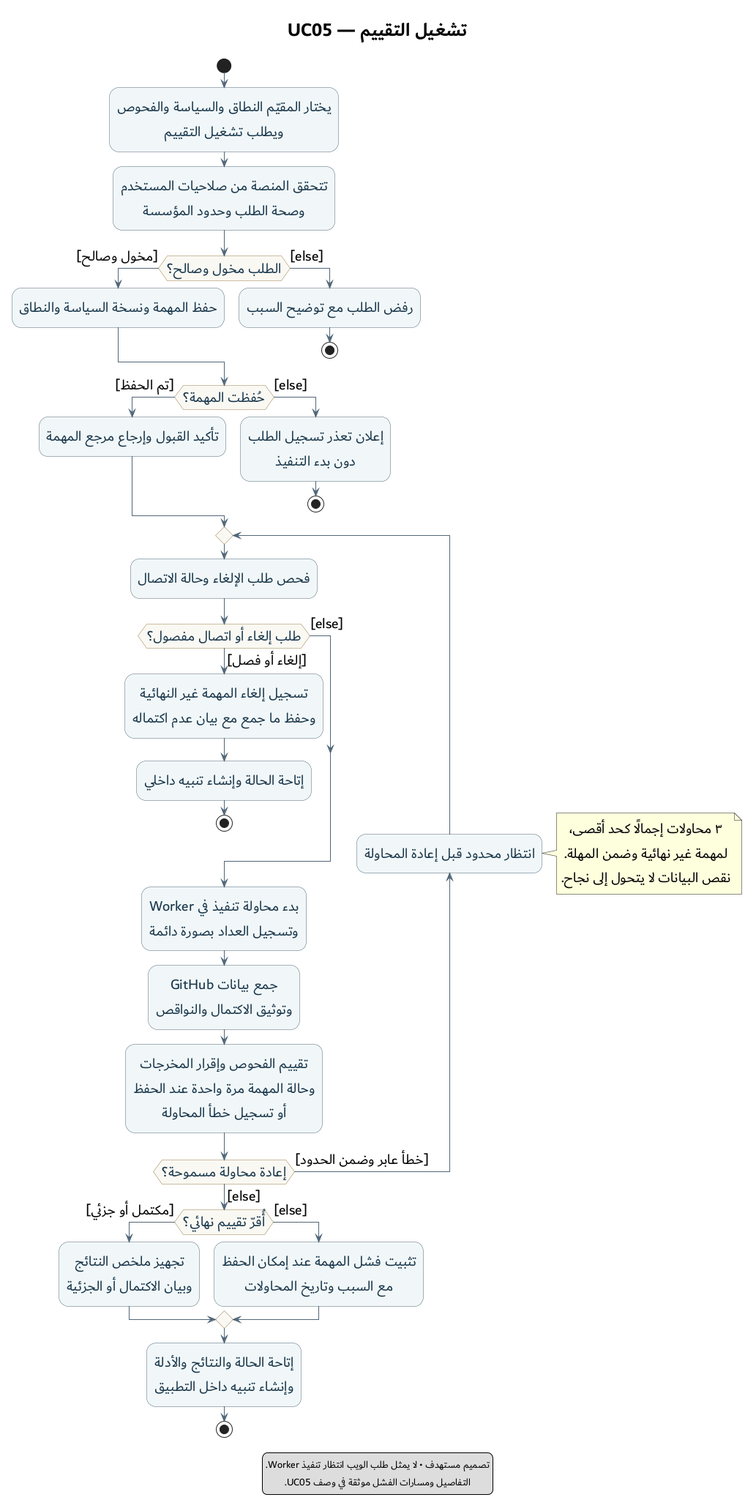
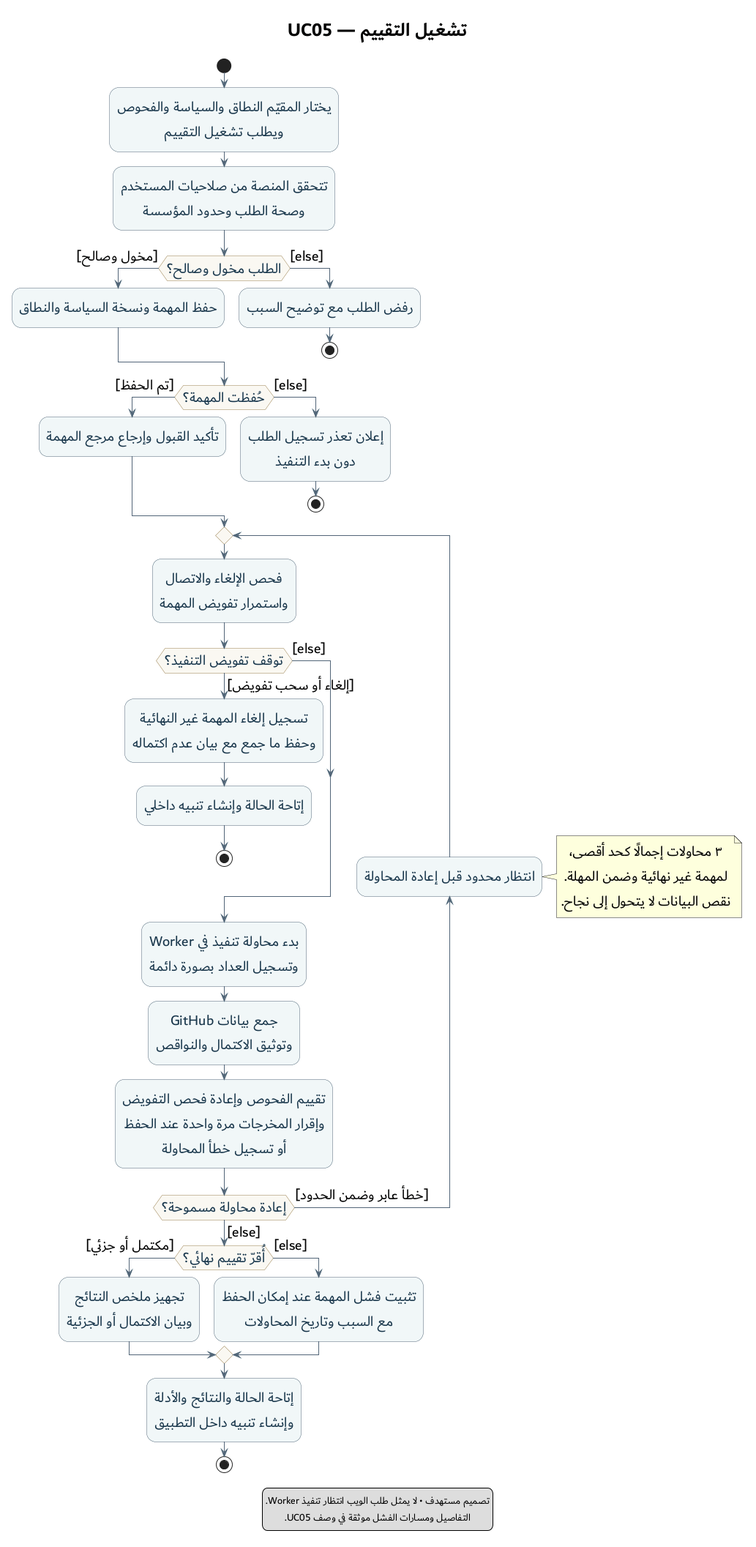
Add organization access matrix and Kanban work board

diff --git a/docs/ACCESS_CONTROL_MATRIX.md b/docs/ACCESS_CONTROL_MATRIX.md
@@ -1,0 +1,82 @@
+# مصفوفة صلاحيات المنصة
+
+1 نوفمبر 2026. الحالة: **مسودة تصميم للمراجعة**، وليست صلاحيات منفذة. تفصل هذه الوثيقة FR-02 وFR-03 وFR-26 ضمن الأدوار الثلاثة المعتمدة؛ لا تضيف دورًا أو متطلبًا وظيفيًا رئيسيًا جديدًا.
+
+## قاعدة الأدوار
+
+المسؤول يدير المؤسسة ويستطيع أيضًا تنفيذ أعمال المقيّم والاطلاع. المقيّم ينفذ التقييم والتخطيط ومتابعة المعالجة، ويطلع على النتائج والتقارير. المراجع يطلع على النتائج والأدلة والتاريخ والتقارير دون تعديل بيانات المؤسسة.
+
+هذا توزيع مقترح لإغلاق الغموض الذي ظهر في مراجعة التصميم. للمستخدم دور واحد في كل عضوية مؤسسة؛ امتلاك المسؤول لصلاحيات تشغيل لا يحتاج عضوية ثانية أو دورًا عالميًا. وتنفذ القوائم المسموحة صراحة، دون الاعتماد على اسم «المسؤول» بوصفه تجاوزًا عامًا للقيود.
+
+«نعم» في الجدول تفترض جلسة صالحة وعضوية فعالة وموارد تابعة للمؤسسة المختارة. لا تكفي معرفة معرف تقييم أو ملف أو مستخدم للوصول إليه.
+
+الإجراء غير المسموح صراحة يرفض افتراضيًا. إضافة إجراء جديد تحتاج تحديد صلاحياته؛ لا يستنتج السماح من مجرد تسجيل الدخول.
+
+## الإجراءات المسموحة
+
+| الإجراء | المسؤول | المقيّم | المراجع | المرجع والقيد |
+|---|---|---|---|---|
+| إدارة عضويات المؤسسة وإسناد الأدوار وتعطيلها وإعادة تفعيلها | نعم | لا | لا | UC01؛ يمنع التكرار وتعطيل آخر مسؤول فعال أو خفض دوره |
+| استعراض سجل العضويات وأدوارها من صفحة الإدارة | نعم | لا | لا | UC01؛ لا يكشف دليل مستخدمي المنصة خارج المؤسسة |
+| اختيار مسؤول معالجة من قائمة مختصرة لأعضاء المؤسسة الفعالين | نعم | نعم | لا | UC06؛ الحد اللازم للإسناد، دون صلاحية إدارة العضويات |
+| ربط اتصال GitHub أو تعديل نطاق وصوله أو فصله | نعم | لا | لا | UC02؛ يتطلب أيضًا إثبات التفويض المناسب على GitHub |
+| قراءة حالة الاتصال وحدود التغطية غير السرية | نعم | نعم | نعم | تظهر بالقدر المرتبط بنطاق العمل والنتائج المصرح بها |
+| إنشاء سياسة فحص أو اعتماد نسخة معدلة منها | نعم | لا | لا | UC03؛ تحفظ النسخ السابقة |
+| تعريف أهداف السماح والمنع والطبقات الثابتة والتعديلات المسموحة | نعم | لا | لا | UC03؛ لا يغير طالب الخطة الأهداف المعتمدة ضمن UC07 |
+| قراءة السياسة والأهداف المشار إليهما في تقييم أو خطة مصرح بها | نعم | نعم | نعم | UC03 وUC09؛ للمتابعة والتفسير |
+| إنشاء نطاق تقييم أو تعديله وحفظه | نعم | نعم | لا | UC04؛ مستودعات مصرح بها وفحوص من الكتالوج وسياسة محددة |
+| طلب تشغيل تقييم | نعم | نعم | لا | UC05؛ قبول الطلب بعد حفظ المهمة |
+| عرض حالة المهمة ونتائجها المتاحة وحدودها | نعم | نعم | نعم | UC05 وUC09؛ نطاق المؤسسة، لا مهام مؤسسات أخرى |
+| تغيير مسؤول معالجة المخالفة أو حالتها أو إضافة تعليق | نعم | نعم | لا | UC06؛ لا يعدل حكم الفحص أو دليله |
+| إغلاق المخالفة إداريًا | نعم | نعم | لا | UC06؛ سبب مطلوب، والإغلاق لا يثبت الإصلاح |
+| طلب خطة إصلاح من تقييم محفوظ | نعم | نعم | لا | UC07؛ أهداف معتمدة ومدخلات ونطاق يدعمهما المحرك |
+| طلب إعادة التحقق أو طلب مهمة جديدة بعد معالجة سبب التعثر | نعم | نعم | لا | UC08 وFR-28؛ مرجع جديد مرتبط بالتاريخ، لا تصفير للمحاولات القديمة |
+| مراجعة النتائج والأدلة وتاريخ المخالفات | نعم | نعم | نعم | UC09؛ يعاد التحقق عند فتح الدليل نفسه |
+| مقارنة تقييمين | نعم | نعم | نعم | UC09؛ تقييمان مصرح بهما، مع بيان تكافؤ السؤال والنطاق والمتطلب |
+| عرض تقرير وطباعته | نعم | نعم | نعم | UC10؛ يشمل فحص الإذن عند طلب نسخة الطباعة |
+| قراءة سجل التدقيق الإداري للمؤسسة | نعم | لا | نعم | FR-26؛ عرض محمي لا يتيح تعديل السجل. يظل تاريخ التقييم والمعالجة متاحًا للمقيّم عبر UC09 |
+| تعديل حكم أمني أو دليل تقييم سابق يدويًا | لا | لا | لا | الحكم الجديد ينشأ من تقييم جديد، ولا يكتب فوق الأصل |
+| حذف تاريخ التقييمات أو سجل التدقيق من واجهة المستخدم | لا | لا | لا | ليس وظيفة في النطاق الحالي؛ سياسة الاحتفاظ التشغيلية تفصل لاحقًا |
+| عرض رمز GitHub أو مفتاح التطبيق الخام في الواجهة أو التقرير | لا | لا | لا | إدارة الاتصال لا تمنح صلاحية كشف أسراره |
+| تطبيق خطة إصلاح آليًا على GitHub من المنصة | لا | لا | لا | خارج التنفيذ الحالي؛ التطبيق اليدوي يتطلب صلاحية GitHub مستقلة |
+
+المراجعة والقراءة لا تستدعيان منح صلاحية تعديل. كما أن إسناد مخالفة إلى عضو لا يغير دوره؛ وجوده مسؤولًا عن المعالجة لا يضيف إليه إجراءات محظورة في الجدول.
+
+## إجراءات تخص حساب المستخدم نفسه
+
+الدخول والخروج وإدارة الجلسة واسترداد الوصول تخص صاحب الحساب وفق آلية المصادقة التي سنختارها. تنبيهات المستخدم الداخلية تخصه؛ لا يمنح دور المسؤول حق فتح صندوق تنبيهات شخص آخر. البيانات التي يتضمنها التنبيه تظل خاضعة لعضوية المؤسسة عند فتحها.
+
+تعطيل عضوية مؤسسة يمنع الوصول إلى مواردها، لكنه لا يعطل حساب المستخدم أو عضوياته في مؤسسات أخرى. أما إنشاء المؤسسة والمسؤول الأول فله مسار تهيئة مستقل لم يُحسم بعد؛ لا نفترض أن أحد الأدوار يستطيع إنشاء نفسه داخل مؤسسة قائمة.
+
+## ماذا يحدث عند تغيير الدور أو تعطيل العضوية؟
+
+1. يقرأ الخادم العضوية والدور في سياق المؤسسة لكل طلب محمي. تغيير الدور أو تعطيل العضوية يسري على الطلبات اللاحقة؛ لا يعتمد القرار على زر مخفي أو دور قديم محفوظ في الصفحة وحدها.
+2. إذا بقيت الصلاحية المطلوبة بعد تغيير الدور، يبقى الإجراء مسموحًا. مثال: انتقال المسؤول إلى مقيّم لا يسحب صلاحية طلب تقييم، لكنه يسحب إدارة العضويات والسياسة والاتصال.
+3. عند بدء مهمة منتظرة، يتحقق Worker من استمرار عضوية طالبها والصلاحية المطلوبة للمهمة، ومن صلاحية اتصال المؤسسة ونطاقها. عند فقد التفويض لا يبدأ العمل، وتسجل المهمة غير النهائية ملغاة مع السبب.
+4. المهام الجارية تفحص الإلغاء والتفويض عند نقاط التحقق وقبل إقرار نتيجة نهائية. تسحب صلاحية التنفيذ عند الحاجة، دون وعد بإيقاف طلب شبكة قائم فورًا؛ لا تؤكد المهمة أنها اكتملت إذا اعتمد إلغاؤها قبل الإقرار.
+5. تبقى نتيجة المهمة التي انتهت بالفعل وتاريخها محفوظين. تغيير دور منشئها لا يغير حكمها، لكن وصوله إليها لاحقًا يحتاج صلاحية قائمة.
+6. سحب عضوية مستخدم لا يفصل اتصال المؤسسة ولا يلغي مهام المستخدمين الآخرين أو عضوياته في مؤسسات أخرى. فصل الاتصال إجراء إداري مستقل في UC02.
+7. لا تعاد حالة العضوية أو النسخة القديمة للتغلب على تعارض. يراجع التفويض والنسخة وشرط بقاء مسؤول فعال داخل عملية الحفظ، مع حماية التنفيذ المتزامن.
+
+هذه سياسة مقترحة للمهام ضمن المصفوفة. آلية تنفيذ نقاط التحقق وحماية الإقرار عند الانقطاع تفصل في تصميم المهام؛ لا تنشئ دور مستخدم رابعًا باسم Worker.
+
+سحب العضوية أو الوصول إلى المستودع يختلف عن تعذر قراءة حقل لفحص داخل نطاق مصرح به. نقص بيانات فحص لا يلغي بقية الأسئلة تلقائيًا ولا يسقطه من التغطية؛ يعالج UC05 أثره بوصفه نقصًا معلومًا في البيانات.
+
+## أمثلة قبول نتحقق منها عند التنفيذ
+
+| الحالة | النتيجة المطلوبة |
+|---|---|
+| المستخدم مسؤول في المؤسسة A ومراجع في B | يدير A، ويقرأ النتائج المصرح بها في B؛ لا تنتقل صلاحيات A إلى B |
+| المراجع يرسل طلب تعديل سياسة أو حالة مخالفة مباشرة إلى الخادم | يرفض الطلب حتى لو تجاوز الواجهة أو عرف المعرفات |
+| المقيّم يطلب تشغيلًا أو خطة ضمن مؤسسته | يقبل الطلب بعد التحقق والحفظ؛ طلب إدارة اتصال أو عضوية يرفض |
+| المسؤول يطلب تشغيل التقييم أو قراءة الأدلة | يسمح به ضمن المصفوفة؛ يظل ممنوعًا من تغيير الأدلة السابقة أو كشف الرموز |
+| مسؤولان يحاولان بالتزامن خفض دوريهما ولا يوجد غيرهما | يحافظ الحفظ على مسؤول فعال واحد على الأقل |
+| مستخدم يرسل الدور أو هوية المؤسسة أو الفاعل في الطلب بقيم مزورة | تستمد هوية الفاعل وعضويته من السياق الموثوق، وتتحقق ملكية كل مرجع |
+| تعطيل عضوية بعد فتح صفحة أو قبول مهمة | يرفض الوصول اللاحق؛ وتراجع المهمة غير النهائية تفويض التنفيذ عند نقاط التحقق |
+| تعذر قراءة بيانات فحص أو انتهت محاولة | يظهر السبب؛ لا تتحول صلاحية المستخدم أو نجاح المهمة إلى حكم أمني مستوفٍ |
+
+هذه معايير قبول مستقبلية، لا نتائج اختبارات أجريت. ولا توسع صلاحيات المنصة ما يسمح به اتصال GitHub.
+
+## الارتباط بالتصميم
+
+[حالات الاستخدام](diagrams/use-cases/02-use-cases.md)، و[UC01](use-cases/UC01-manage-memberships.md)، و[دورة التقييم UC05](use-cases/UC05-run-assessment.md)، و[ملاحظات الأمن](SECURITY_DESIGN_NOTES.md). تبقى التهيئة الأولى والمصادقة واسترداد الوصول وإدارة أسرار التشغيل ضمن البنود التالية، كما توضح [لوحة العمل](KANBAN.md).

diff --git a/docs/use-cases/UC05-run-assessment.md b/docs/use-cases/UC05-run-assessment.md
@@ -5,7 +5,7 @@
 | العنصر | الوصف |
 |---|---|
 | الهدف | تقييم نطاق GitHub وفق نسخة محددة من سياسة المؤسسة، وحفظ النتائج وأدلتها وحدودها |
-| الطرف الرئيسي | المقيّم المخول داخل المؤسسة |
+| الطرف الرئيسي | المقيّم أو مسؤول المؤسسة، وفق مسودة مصفوفة الصلاحيات |
 | الطرف الخارجي | GitHub، عبر GitHub App المعتمدة |
 | المحفز | اختيار المستخدم «تشغيل التقييم» |
 | المدخلات | المؤسسة، والمستودعات والفحوص المختارة، ونطاق كل فحص، ونسخة السياسة، ومرجع الاتصال |
@@ -18,7 +18,7 @@
 1. يختار المقيّم مؤسسته ونطاقًا محفوظًا من UC04، ويراجع مستودعاته وفحوصه ونسخة السياسة المعتمدة، ثم يطلب التشغيل.
 2. تتحقق المنصة من الجلسة وصلاحيات المستخدم وحدود المؤسسة وصحة النطاق والمدخلات.
 3. تحفظ المنصة المهمة قبل تأكيد قبولها، وتثبت مراجع النطاق ونسخة السياسة والاتصال. تعرض مرجع المهمة وحالتها؛ يستمر العمل في الخلفية دون إبقاء طلب الويب مفتوحًا حتى النهاية.
-4. يبدأ Worker محاولة تنفيذ ويسجل بدايتها وعدّادها بصورة دائمة قبل العمل. يظل نطاق القراءة محصورًا بمؤسسة المهمة وما يصرح به اتصالها.
+4. يتحقق Worker من استمرار تفويض المهمة، بما فيه عضوية طالبها وصلاحية الإجراء والاتصال ونطاقه، ثم يبدأ محاولة تنفيذ ويسجل بدايتها وعدّادها بصورة دائمة قبل العمل. يظل نطاق القراءة محصورًا بمؤسسة المهمة وما يصرح به اتصالها.
 5. يجمع بيانات GitHub المطلوبة، بما فيها الصفحات اللازمة، ويسجل المصدر ونافذة الجمع والأخطاء والحقول الناقصة.
 6. يقيم الفحوص المختارة وفق نسخة السياسة المثبتة. يميز الانطباق والدعم والحكم الأمني عن حالة تشغيل المهمة؛ يوثق النتائج غير المحسومة وأسبابها.
 7. يحفظ الأدلة والنتائج، وينشئ المخالفات المثبتة أو يربط ظهورها بسجلاتها الحالية وفق هوية المخالفة المعتمدة، دون تكرار المخرجات النهائية عند إعادة المحاولة.
@@ -37,7 +37,7 @@
 | A7 | بيانات كافية لبعض الفحوص فقط | تحفظ النتائج الممكنة، ومنها المخالفة المثبتة بدليل، وتعلن جزئية التشغيل. تظهر الأسئلة الأخرى غير محسومة مع أسبابها |
 | A8 | فحص غير منطبق أو ميزة غير متاحة أو فحص غير مدعوم | يظهر التصنيف والسبب. عدم الانطباق بسبب مثبت لا يعد نجاحًا؛ إذا كانت السياسة تطلب ميزة ثبت تعطيلها، فذلك إخفاق للمتطلب |
 | A9 | فشل التقييم الداخلي أو حفظ المخرجات | يسجل سبب المحاولة عند إمكان ذلك، ولا يثبت نجاح المهمة قبل حفظ مخرجاتها. يسترجع العمل المنقطع وفق حد المحاولات دون إقرار نتيجة نهائية مرتين؛ تعذر قاعدة البيانات يعالج عند استعادة الوصول |
-| A10 | طلب إلغاء أو فصل الاتصال قبل انتهاء المهمة | يمنع بدء قراءات جديدة، وتلغى المهمة غير النهائية مع حفظ ما جمع بوصفه غير مكتمل. طلب شبكة قائم قد يستمر إلى نهايته أو مهلته؛ لا يثبت الإلغاء زوال مخالفة ولا يستبدل نتيجة انتهت بالفعل |
+| A10 | إلغاء أو فصل الاتصال أو فقد تفويض طالب المهمة قبل انتهائها | يوقف التنفيذ عند نقاط التحقق وقبل الإقرار النهائي، وتلغى المهمة غير النهائية مع حفظ ما جمع بوصفه غير مكتمل. طلب شبكة قائم قد يستمر إلى نهايته أو مهلته؛ لا يثبت الإلغاء زوال مخالفة ولا يستبدل نتيجة انتهت بالفعل. تغير الدور لا يلغي المهمة إذا بقي الإجراء مسموحًا |
 
 ## قواعد لا تتغير بين المسارات
 
@@ -54,6 +54,7 @@
 - [Activity Diagram — PlantUML](../diagrams/activity/03-run-assessment-activity.puml) و[المعاينة](../diagrams/activity/03-run-assessment-activity.png).
 - [المتطلبات الوظيفية](../FUNCTIONAL_REQUIREMENTS_INVENTORY.md): FR-01، FR-03، FR-07 إلى FR-15، FR-26 إلى FR-28.
 - [UC04 — تحديد نطاق التقييم](UC04-define-assessment-scope.md) لإعداد النطاق وحفظه قبل طلب التنفيذ.
+- [مصفوفة الصلاحيات](../ACCESS_CONTROL_MATRIX.md) لحدود الدور والمؤسسة والتعامل مع سحب تفويض المهمة.
 - [نطاق المشروع](../PROJECT_SCOPE.md)، ولا سيما تعريف النتيجة والمخالفة وحدود المحاولات.
 
 المخطط يلخص المسار والتحولات الرئيسية؛ الجدول أعلاه يحدد تفاصيل البدائل. هذه مواصفة للسلوك المطلوب، وليست نتائج اختبار لتنفيذ قائم.

diff --git a/docs/use-cases/UC01-manage-memberships.md b/docs/use-cases/UC01-manage-memberships.md
@@ -16,7 +16,7 @@
 
 - العضوية تربط مستخدمًا بمؤسسة محددة. يحمل كل ارتباط دورًا واحدًا من الأدوار الثلاثة المعتمدة: مسؤول أو مقيّم أو مراجع؛ يمكن للمسؤول المخول تغيير هذا الإسناد.
 - المستخدم نفسه قد تكون له عضويات في مؤسسات مختلفة بأدوار مختلفة. لا يصبح مسؤولًا في مؤسسة ثانية بسبب دوره في الأولى.
-- المسؤول يدير العضويات والاتصال والسياسة، والمقيّم يدير دورة التقييم والمعالجة والتخطيط، والمراجع يراجع النتائج والأدلة والتقارير. تفصل مصفوفة الصلاحيات جميع الإجراءات المشتركة لاحقًا؛ لا يفترض وراثة أدوار إضافية من اسم الدور وحده.
+- المسؤول يدير العضويات والاتصال والسياسة ويستطيع التشغيل والاطلاع، والمقيّم يدير دورة التقييم والمعالجة والتخطيط، والمراجع يراجع النتائج والأدلة والتقارير. تفصل [مسودة مصفوفة الصلاحيات](../ACCESS_CONTROL_MATRIX.md) الإجراءات والقيود؛ الدور واحد لكل عضوية، والقائمة المسموحة لكل إجراء صريحة.
 - عضوية المنصة مستقلة عن عضوية GitHub وعن البوتات والأطراف التي يحلل المحرك صلاحياتها. إسناد دور في المنصة لا يمنح بذاته صلاحية على GitHub.
 
 ## المسار الأساسي
@@ -27,7 +27,7 @@
 4. يحدد المسؤول القيم الجديدة ويراجع ملخص التغيير، بما فيه الصلاحيات التي ستتغير، ثم يؤكد الطلب. لا يعدل هذا الإجراء هوية المستخدم أو بيانات دخوله أو عضوياته في مؤسسات أخرى.
 5. تتحقق المنصة من الإجراء والدور ومرجع العضوية، ومن بقاء مسؤول فعال واحد على الأقل بعد التغيير. ينطبق ذلك على تعطيل آخر مسؤول أو خفض دوره، بما فيه تعديل الفاعل لعضويته هو.
 6. تعيد التحقق من تفويض الفاعل والنسخة الحالية وقت الحفظ، وتحفظ التغيير وسجل التدقيق بصورة متسقة. يحمي التنفيذ شرط آخر مسؤول عند الطلبات المتزامنة؛ لا يكفي عد الأعضاء في صفحة سبق فتحها.
-7. تعرض النتيجة المحفوظة. يسري الدور أو التعطيل على طلبات الوصول اللاحقة؛ لا يبقى الوصول مباحًا لمجرد أن المستخدم فتح صفحة قبل سحب صلاحيته.
+7. تعرض النتيجة المحفوظة. يسري الدور أو التعطيل على طلبات الوصول اللاحقة؛ لا يبقى الوصول مباحًا لمجرد أن المستخدم فتح صفحة قبل سحب صلاحيته. تراجع المهام غير النهائية استمرار صلاحية طالبها وفق المصفوفة، دون فصل اتصال المؤسسة أو إلغاء مهام الآخرين تلقائيًا.
 8. تبقى التقييمات والأدلة والتعليقات وسجلات التدقيق السابقة مرتبطة بفاعلها وتاريخها. تعطيل العضوية أو إعادة تفعيلها لا يمحو التاريخ أو ينشئ عضوية مكررة.
 
 ## البدائل والاستثناءات

diff --git a/docs/DESIGN_CONTENT_REVIEW_2026-11-01.md b/docs/DESIGN_CONTENT_REVIEW_2026-11-01.md
@@ -77,7 +77,7 @@
 
 ## ما بقي قبل البناء
 
-1. تثبيت مصفوفة الصلاحيات، وطريقة المصادقة وتهيئة المؤسسة والمسؤول الأول واسترداد الوصول.
+1. تثبيت [مسودة مصفوفة الصلاحيات](ACCESS_CONTROL_MATRIX.md) التي أصبحت موثقة، وتفصيل طريقة المصادقة وتهيئة المؤسسة والمسؤول الأول واسترداد الوصول.
 2. تحديد صلاحيات GitHub App وendpoints لكل مجموعة فحوص، وإثبات الوصول في مختبر مصرح به. كما يلزم تفصيل إثبات سلطة الشخص الذي يربط تثبيت المؤسسة.
 3. اختيار مكتبة المهام، وتفصيل ملكية المحاولة عند الانقطاع والإلغاء والمهل. يلزم أيضًا تحديد سلوك المحرك إذا وجد خطة صحيحة ثم انتهت ميزانية تحسين الكلفة.
 4. إعداد Component وDomain/ERD وSequence وState وتدفق البيانات والنشر حيث تحتاجها متطلباتنا؛ هذه الرسوم لم تُنجز بعد.
@@ -103,4 +103,4 @@
 
 راجعت طلب المراجعة رقم 1 عند الالتزام `1392b0ec6ff10d8e45b3b0ebd5f7828fd1417033`. طابقت ملفات التصميم المحلية الخمسين مع معرفات ملفاتها على GitHub، وفحصت قائمة التغييرات البالغ عددها 51 مع README: لم يظهر ملف مفقود أو مختلف أو ملف خارج الحزمة. المخططات المرفوعة 13 مصدرًا و16 معاينة، وكل صورة داخل مجلد نوعها. كان الطلب مفتوحًا بوصفه Draft، ولم تكن التغييرات مدمجة في main وقت الفحص.
 
-في المرور الثاني فصلت مراجعة الدليل عن المقارنة في UC09: يمكن طلب المقارنة من ملخص التقييم، وتعذر دليل واحد لا يمنع الاطلاع المصرح على بقية النتائج. كما اختصرت ملف المراجعة الأكاديمية إلى الحالة الحالية بدل جمع أعداد المراحل السابقة في الصفحة نفسها. تبقى فجوات الصلاحيات والمصادقة والمكونات والبيانات المذكورة أعلاه مفتوحة.
+في المرور الثاني فصلت مراجعة الدليل عن المقارنة في UC09: يمكن طلب المقارنة من ملخص التقييم، وتعذر دليل واحد لا يمنع الاطلاع المصرح على بقية النتائج. كما اختصرت ملف المراجعة الأكاديمية إلى الحالة الحالية بدل جمع أعداد المراحل السابقة في الصفحة نفسها. أضيفت لاحقًا مسودة مصفوفة الصلاحيات، وتبقى مراجعتها وتفاصيل المصادقة والمكونات والبيانات ضمن استكمال التصميم.

diff --git a/docs/KANBAN.md b/docs/KANBAN.md
@@ -1,0 +1,15 @@
+# لوحة العمل
+
+1 نوفمبر 2026. متابعة يدوية داخل مستودع المشروع. الحد: **بند واحد جارٍ في الوقت نفسه**. نقل بند إلى «للمراجعة» يعني توفر مخرج يمكن مراجعته، ولا يعني تنفيذ منصة أو نجاح اختبار حي.
+
+| البند | الحالة | المخرج أو شرط الانتقال |
+|---|---|---|
+| AC-01 — صلاحيات الأدوار وسحب الوصول | للمراجعة | [المصفوفة](ACCESS_CONTROL_MATRIX.md)، ومواءمة الأوصاف والرسوم؛ الاقتراح يتيح للمسؤول التشغيل والاطلاع أيضًا |
+| AUTH-01 — الدخول وتهيئة المؤسسة والمسؤول الأول والاسترداد | جاهز | وصف مسار واحد واضح، وتحديد ما يحتاج كلمة مرور وموضع التهشير وحماية الجلسة |
+| ARCH-01 — المكونات وعقود التواصل | جاهز بعد AUTH-01 | Component Diagram يستند إلى الصلاحيات والتهيئة وحدود Web وWorker |
+| DATA-01 — نموذج البيانات وERD | جاهز بعد ARCH-01 | المؤسسات والعضويات والمهام والأدلة والنتائج وتاريخها وعلاقاتها |
+| FLOW-01 — تسلسل أول تقييم وحالات المهمة | جاهز بعد DATA-01 | Sequence وState للمسار الأول، بما فيه الانقطاع والإلغاء والإقرار النهائي |
+| GH-01 — عقد الوصول إلى GitHub App للمحطة الأولى | جاهز | الصلاحيات وendpoints ونتائج التحقق المصرح به؛ يبدأ قبل ادعاء صحة الجمع أو المحرك على GitHub |
+| DESIGN-01 — توثيق الحالات ومراجعة الحزمة | أُنجزت المراجعة | [تقرير المراجعة](DESIGN_CONTENT_REVIEW_2026-11-01.md)؛ التوثيق مرفوع في طلب مراجعة، وبقية التصميم مذكورة فيه |
+
+لا يوجد بند جارٍ بعد تسليم مسودة AC-01 للمراجعة. نسحب البند التالي عندما تتضح مدخلاته، ونحدث هذه اللوحة مع العمل. الفحوص الـ24 تبقى ضمن نطاق GitHub المعتمد، وAWS يأتي بعد إكمال ذلك النطاق إذا بقي وقت.

diff --git a/docs/SECURITY_DESIGN_NOTES.md b/docs/SECURITY_DESIGN_NOTES.md
@@ -13,6 +13,8 @@
 
 تسجيل الدخول والتفويض والتدقيق أدوات تحقق تدعم هذه الأهداف؛ لا يكفي ذكرها دون تنفيذ واختبار. يجمع [OWASP](https://devguide.owasp.org/en/02-foundations/01-security-fundamentals/) بين CIA ومفاهيم التحقق من الهوية والتفويض والتدقيق.
 
+تفصل [مسودة مصفوفة الصلاحيات](ACCESS_CONTROL_MATRIX.md) الأدوار والإجراءات وحدود المؤسسة وسحب الوصول. توثيق القاعدة لا يثبت تنفيذها أو نجاح اختبارات العزل.
+
 ## أين نستخدم التهشير والتشفير؟
 
 - **كلمات المرور:** إذا اختير دخول محلي بكلمة مرور، تستخدم آلية حفظ كلمات المرور في مكتبة موثوقة. في ASP.NET Core توصي [Microsoft باستخدام PasswordHasher](https://learn.microsoft.com/en-us/aspnet/core/security/data-protection/consumer-apis/password-hashing?view=aspnetcore-10.0) بدل كتابة اشتقاق كلمة المرور يدويًا. لا تختار هذه المذكرة مزود الهوية أو إعداداته النهائية.
@@ -24,4 +26,4 @@
 
 ## ما لم يحسم
 
-طريقة المصادقة وتهيئة المسؤول الأول، ومصفوفة الصلاحيات التفصيلية، وإدارة أسرار التشغيل ومفاتيحها، وسياسة الاحتفاظ، ومعايير التوافر والاسترجاع، وأسماء بقية قائمة المشرف. هذه نقاط تصميم لازمة قبل وصف المنصة بأنها محمية أو جاهزة للاستخدام.
+طريقة المصادقة وتهيئة المسؤول الأول، وتثبيت مسودة الصلاحيات وتنفيذها واختبارها، وإدارة أسرار التشغيل ومفاتيحها، وسياسة الاحتفاظ، ومعايير التوافر والاسترجاع، وأسماء بقية قائمة المشرف. هذه نقاط تصميم لازمة قبل وصف المنصة بأنها محمية أو جاهزة للاستخدام.

diff --git a/docs/FUNCTIONAL_REQUIREMENTS_INVENTORY.md b/docs/FUNCTIONAL_REQUIREMENTS_INVENTORY.md
@@ -41,7 +41,7 @@
 |---|---|---|
 | FR-01 | مصادقة المستخدم وإدارة جلسته | دخول وخروج وإنهاء جلسة غير صالحة باستخدام آلية موثوقة؛ لا آلية Authentication مخصصة |
 | FR-02 | إدارة المؤسسة وعضويات المستخدمين وأدوارهم | دور ثابت لكل عضوية: مسؤول أو مقيّم أو مراجع؛ يستطيع المسؤول المخول إدارة عضويات مؤسسته، ولا تنتقل صلاحية المستخدم تلقائيًا إلى مؤسسة أخرى |
-| FR-03 | فرض الصلاحيات وحدود المؤسسة عند الوصول | تمنع المنصة القراءة أو التغيير غير المصرح بهما، بما يشمل الأدلة والتقارير والمهام؛ هذا سلوك Authorization وظيفي وليس إخفاء أزرار فقط |
+| FR-03 | فرض الصلاحيات وحدود المؤسسة عند الوصول | تمنع المنصة القراءة أو التغيير غير المصرح بهما، بما يشمل الأدلة والتقارير والمهام؛ التفصيل في [مسودة مصفوفة الصلاحيات](ACCESS_CONTROL_MATRIX.md). هذا سلوك Authorization وظيفي وليس إخفاء أزرار فقط |
 | FR-04 | إدارة اتصال GitHub | ربط اعتماد مصرح به وتحديثه أو فصله؛ لا تعرض أسراره في الأدلة أو السجلات، ولا تتيح عمليات تتجاوز الاتصال المختار |
 | FR-05 | عرض المستودعات المتاحة للاتصال | يحصر المستخدم المستودعات التي يمكن للهوية الوصول إليها، مع بيانات الفرع الافتراضي المتاحة وحدود اكتمال القائمة |
 | FR-06 | بيان جاهزية الاتصال وتغطية البيانات | تعرض المنصة ما أمكن التحقق من الوصول إليه وما تعذر حسب الفحوص المختارة، وتذكر المجهول؛ لا تعد بتحليل كامل لكل صلاحيات GitHub دون دليل |

diff --git a/docs/diagrams/use-cases/02-use-cases.md b/docs/diagrams/use-cases/02-use-cases.md
@@ -4,7 +4,7 @@
 
 المصدر القابل للتعديل: [PlantUML](02-use-cases.puml).
 
-## المسؤول
+## المسؤول — وظائف الإدارة
 
 ![حالات استخدام المسؤول](02-use-cases-admin.png)
 
@@ -51,7 +51,7 @@
 
 التقرير: [UC10 — عرض التقارير وطباعتها](../../use-cases/UC10-view-print-reports.md)، ومعه [Activity Diagram](../activity/12-view-print-reports-activity.puml).
 
-جميع حالات الاستخدام تفترض تسجيل الدخول وعضوية صالحة وتفويضًا داخل المؤسسة؛ إدارة الجلسة وسجل التدقيق متطلبات مشتركة FR-01 وFR-03 وFR-26. المخطط يعرض توزيع المسؤوليات الرئيسي؛ لا يحسم وحده كل تفاصيل مصفوفة الصلاحيات أو يمنح المستخدم صلاحية على مؤسسة أخرى.
+جميع حالات الاستخدام تفترض تسجيل الدخول وعضوية صالحة وتفويضًا داخل المؤسسة؛ إدارة الجلسة وسجل التدقيق متطلبات مشتركة FR-01 وFR-03 وFR-26. المرجع التفصيلي هو [مسودة مصفوفة الصلاحيات](../../ACCESS_CONTROL_MATRIX.md): يشمل دور المسؤول التشغيل والاطلاع أيضًا، ويعرض منظره هنا وظائف الإدارة تحديدًا. تسمية المقيّم في المسارات التشغيلية لا تمنع المسؤول المخول من استخدامها. لا تنتقل الصلاحيات إلى مؤسسة أخرى.
 
 الفحوص الـ24 جزء من UC05، وتسلم تدريجيًا؛ تشغيل الفحوص الأمنية مشروط بتوافر خدماتها وصلاحياتها. حفظ الأدلة وتنفيذ المهمة الخلفية تفاصيل داخلية لحالات الاستخدام، ولا يصور الرسم أن المستخدم ينفذها يدويًا.
 

diff --git a/docs/PROJECT_SCOPE.md b/docs/PROJECT_SCOPE.md
@@ -24,7 +24,7 @@
 - اعتبار المنصة أساسًا يستمر تطويره، لا نموذجًا يُتخلّص منه بعد تخرج 1.
 - إدارة التنفيذ باستخدام Kanban والتطوير التكراري والتزايدي، مع أولوية إكمال GitHub قبل التوسع إلى AWS، وتقييد توسع AWS بالوقت المتبقي.
 
-اعتماد Kanban لا يعني أن لوحة المتابعة أُنشئت أو أن المنهجية طُبقت فعليًا بعد. مكتبة الطوابير ومزود الاستضافة لم يُختارا بعد. لم تُنشأ مشاريع .NET أو قاعدة بيانات أو تكامل إنتاجي في هذه المهمة.
+تُتابع حالة العمل في [لوحة Kanban داخل المستودع](KANBAN.md)، مع حد بند جارٍ واحد. تفصل [مسودة مصفوفة الصلاحيات](ACCESS_CONTROL_MATRIX.md) حدود الأدوار وسحب الوصول؛ تشمل الصلاحيات المقترحة للمسؤول التشغيل والاطلاع داخل مؤسسته. مكتبة الطوابير ومزود الاستضافة لم يُختارا بعد. لم تُنشأ مشاريع .NET أو قاعدة بيانات أو تكامل إنتاجي في هذه المهمة.
 
 الموجود في مساحة العمل: نموذج Python بحثي محلي ووثائق وتجربة مقارنة محدودة وعرض سمينار. نحافظ على تجربة Python كمرجع؛ ننقل المنطق المطلوب إلى C# ونتحقق من النتائج قبل دمجه. لا نجعل Python تبعية تشغيلية للمنصة لمجرد وجود التجربة.
 

diff --git a/docs/diagrams/README.md b/docs/diagrams/README.md
@@ -6,6 +6,8 @@
 
 المراجعة الأخيرة للمحتوى والتصحيحات وما بقي: [تقرير المراجعة](../DESIGN_CONTENT_REVIEW_2026-11-01.md). وتشمل [ملاحظات حماية المنصة](../SECURITY_DESIGN_NOTES.md) ما تأكد من حديث المشرف عن CIA والأصالة والتشفير والتهشير.
 
+تفصيل إجراءات كل دور وسحب الوصول: [مسودة مصفوفة الصلاحيات](../ACCESS_CONTROL_MATRIX.md). حالة البنود التالية في [لوحة Kanban](../KANBAN.md).
+
 ## ترتيب الملفات
 
 ```text
@@ -66,7 +68,7 @@ diagrams/
 - Sequence Diagrams.
 - State Diagrams للمهمة والمخالفة، والمخطط التفصيلي لخوارزمية الإصلاح.
 - تدفق البيانات وحدود الثقة الأمنية، وDeployment Diagram.
-- المخططات الأولية للواجهات، ومصفوفة الصلاحيات التفصيلية، وربط المتطلبات بالتحقق.
+- المخططات الأولية للواجهات، وربط المتطلبات بالتحقق، وتثبيت مسودة الصلاحيات ثم تنفيذها واختبارها.
 - تفصيل تهيئة المؤسسة والمسؤول الأول واسترداد الوصول ضمن تصميم المصادقة قبل التنفيذ.
 
 مكتبة تنفيذ المهام والاستضافة لم تُحددا بعد. Container Diagram يبين التصميم العام ومسار المهام المحفوظة، ولا يثبت اختيار مكتبة طوابير أو بيئة نشر.

diff --git a/docs/diagrams/context/01-system-context.md b/docs/diagrams/context/01-system-context.md
@@ -20,7 +20,7 @@
 | منصة تقييم الضوابط الأمنية وإدارة الأدلة | النظام موضوع التصميم | تقيّم الفحوص المعتمدة وتحفظ الأدلة وتتابع المعالجة وإعادة التحقق وتقترح خططًا للحالات التي يدعمها المحرك |
 | GitHub | نظام خارجي | مصدر قواعد الحماية والاستثناءات والإعدادات وبيانات الخدمات الأمنية المختارة، ومكان تطبيق المسؤول للتعديل |
 
-الأدوار مرتبطة بعضوية المستخدم داخل المؤسسة؛ لا يفترض الرسم ثلاثة أشخاص محددين أو انتقال صلاحيات مستخدم بين المؤسسات. تحديد كل عملية مسموحة يبقى في مصفوفة الصلاحيات.
+الأدوار مرتبطة بعضوية المستخدم داخل المؤسسة؛ لا يفترض الرسم ثلاثة أشخاص محددين أو انتقال صلاحيات مستخدم بين المؤسسات. تفصل [مسودة مصفوفة الصلاحيات](../../ACCESS_CONTROL_MATRIX.md) كل إجراء؛ يشمل دور المسؤول التشغيل والاطلاع أيضًا، وتبرز علاقة السياق هنا مسؤولياته الإدارية.
 
 ## قراءة العلاقات
 

diff --git a/README.md b/README.md
@@ -33,8 +33,9 @@
 - [فهرس المخططات ومصادر PlantUML ومعايناتها](docs/diagrams/README.md)؛ مرتبة حسب نوع المخطط داخل مجلداته.
 - [مراجعة المحتوى والتصحيحات وما بقي](docs/DESIGN_CONTENT_REVIEW_2026-11-01.md).
 - [حصر المتطلبات الوظيفية](docs/FUNCTIONAL_REQUIREMENTS_INVENTORY.md): 28 متطلبًا رئيسيًا و24 فحصًا متفرعًا من FR-11.
+- [مسودة مصفوفة الصلاحيات](docs/ACCESS_CONTROL_MATRIX.md) و[لوحة Kanban](docs/KANBAN.md).
 - [نطاق المشروع الحالي](docs/PROJECT_SCOPE.md) و[ملاحظات أمن المنصة](docs/SECURITY_DESIGN_NOTES.md).
 
-تصف هذه الملفات التصميم المستهدف: 10 حالات استخدام و16 رسمًا. اكتمالها بهذا المستوى لا يثبت تنفيذ المنصة أو اختبار GitHub الحي، ولا يستبدل استكمال المكونات والبيانات والصلاحيات.
+تصف هذه الملفات التصميم المستهدف: 10 حالات استخدام و16 رسمًا. اكتمالها بهذا المستوى لا يثبت تنفيذ المنصة أو اختبار GitHub الحي، ولا يستبدل استكمال المكونات والبيانات وتثبيت مسودة الصلاحيات.
 
 </div>
